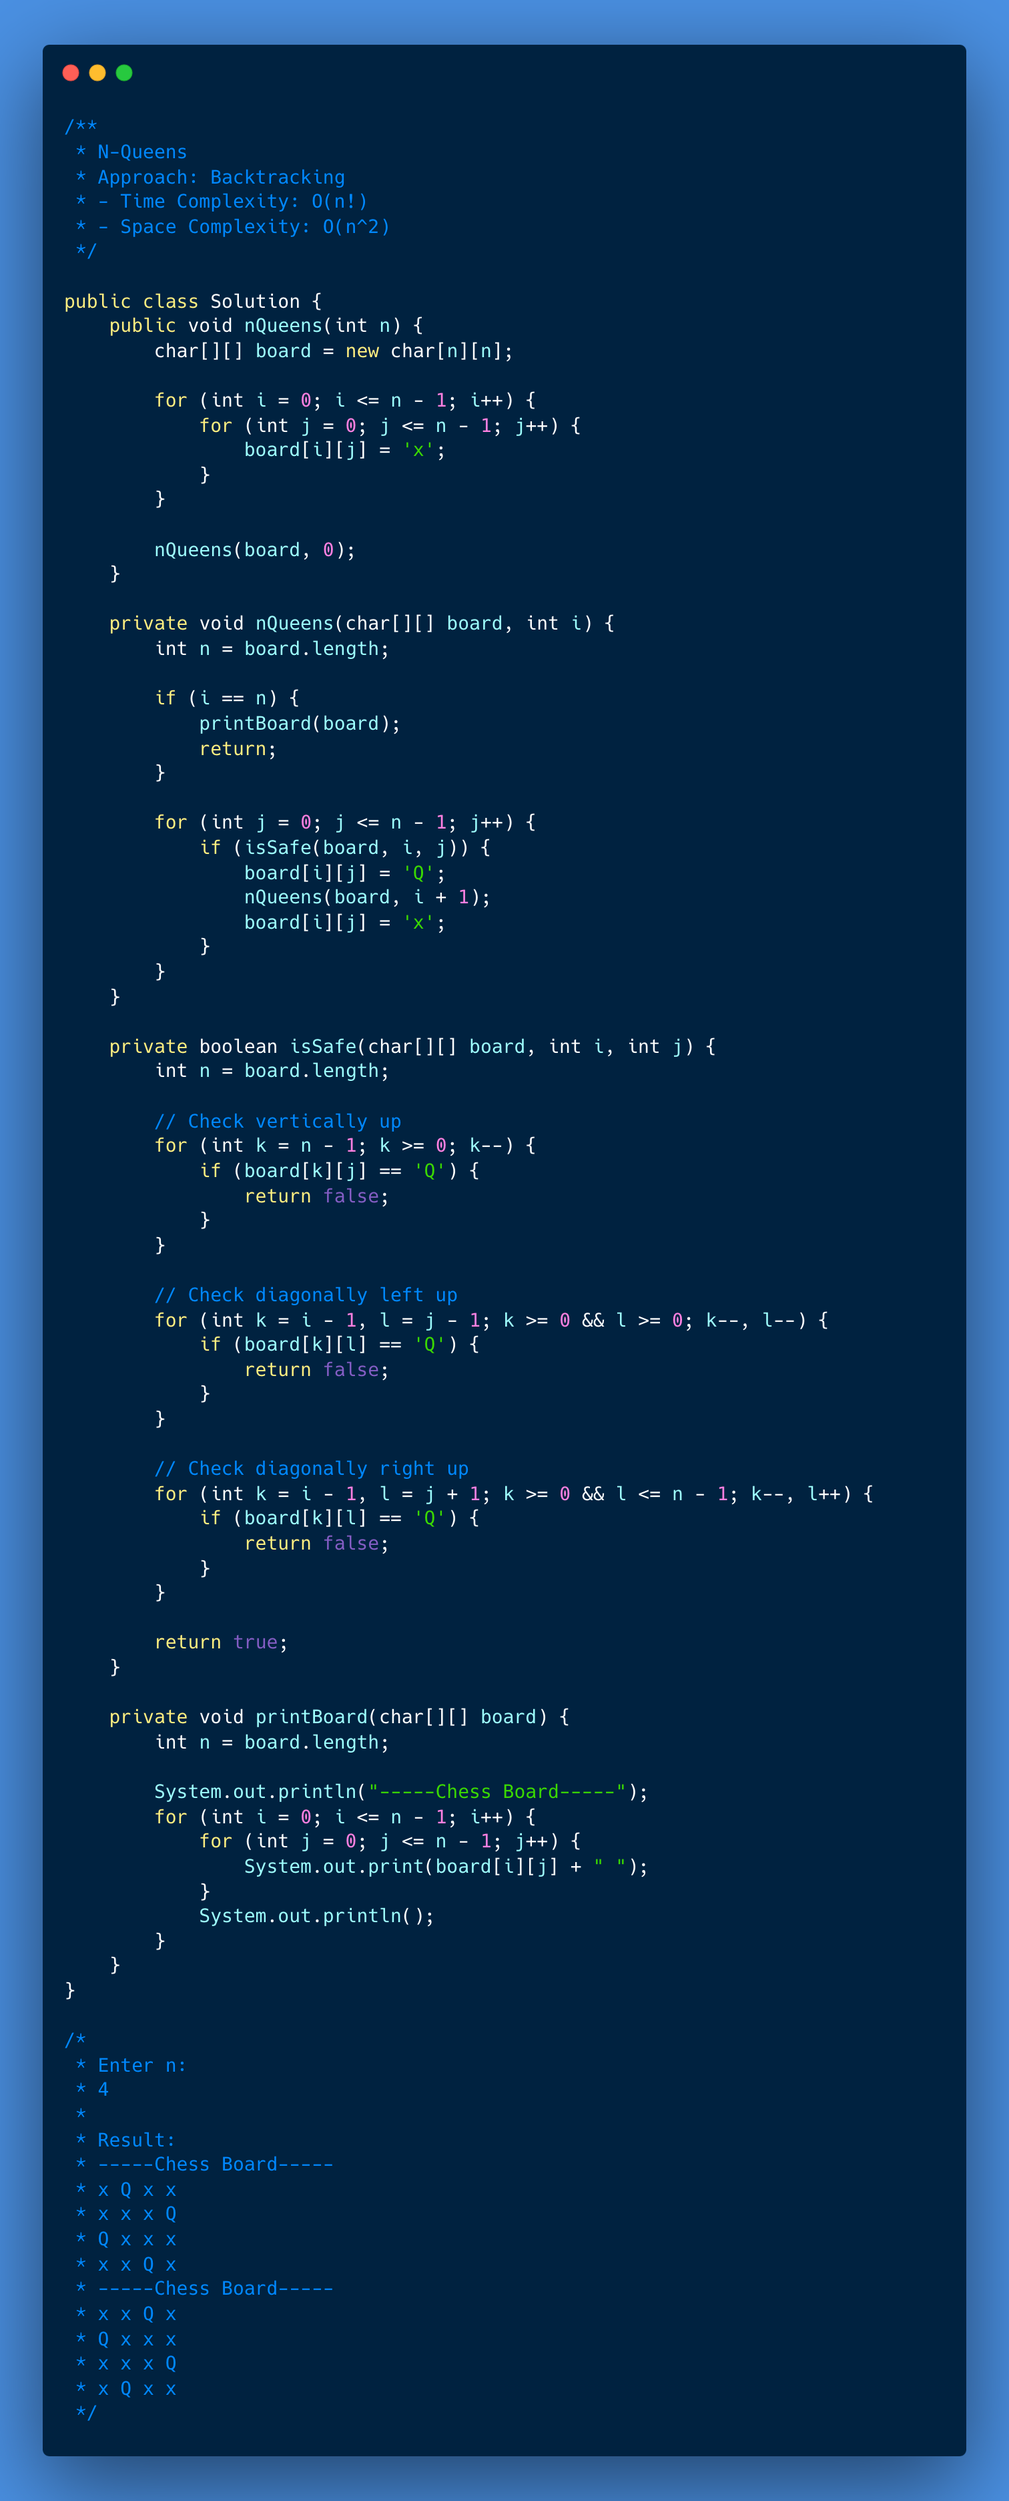
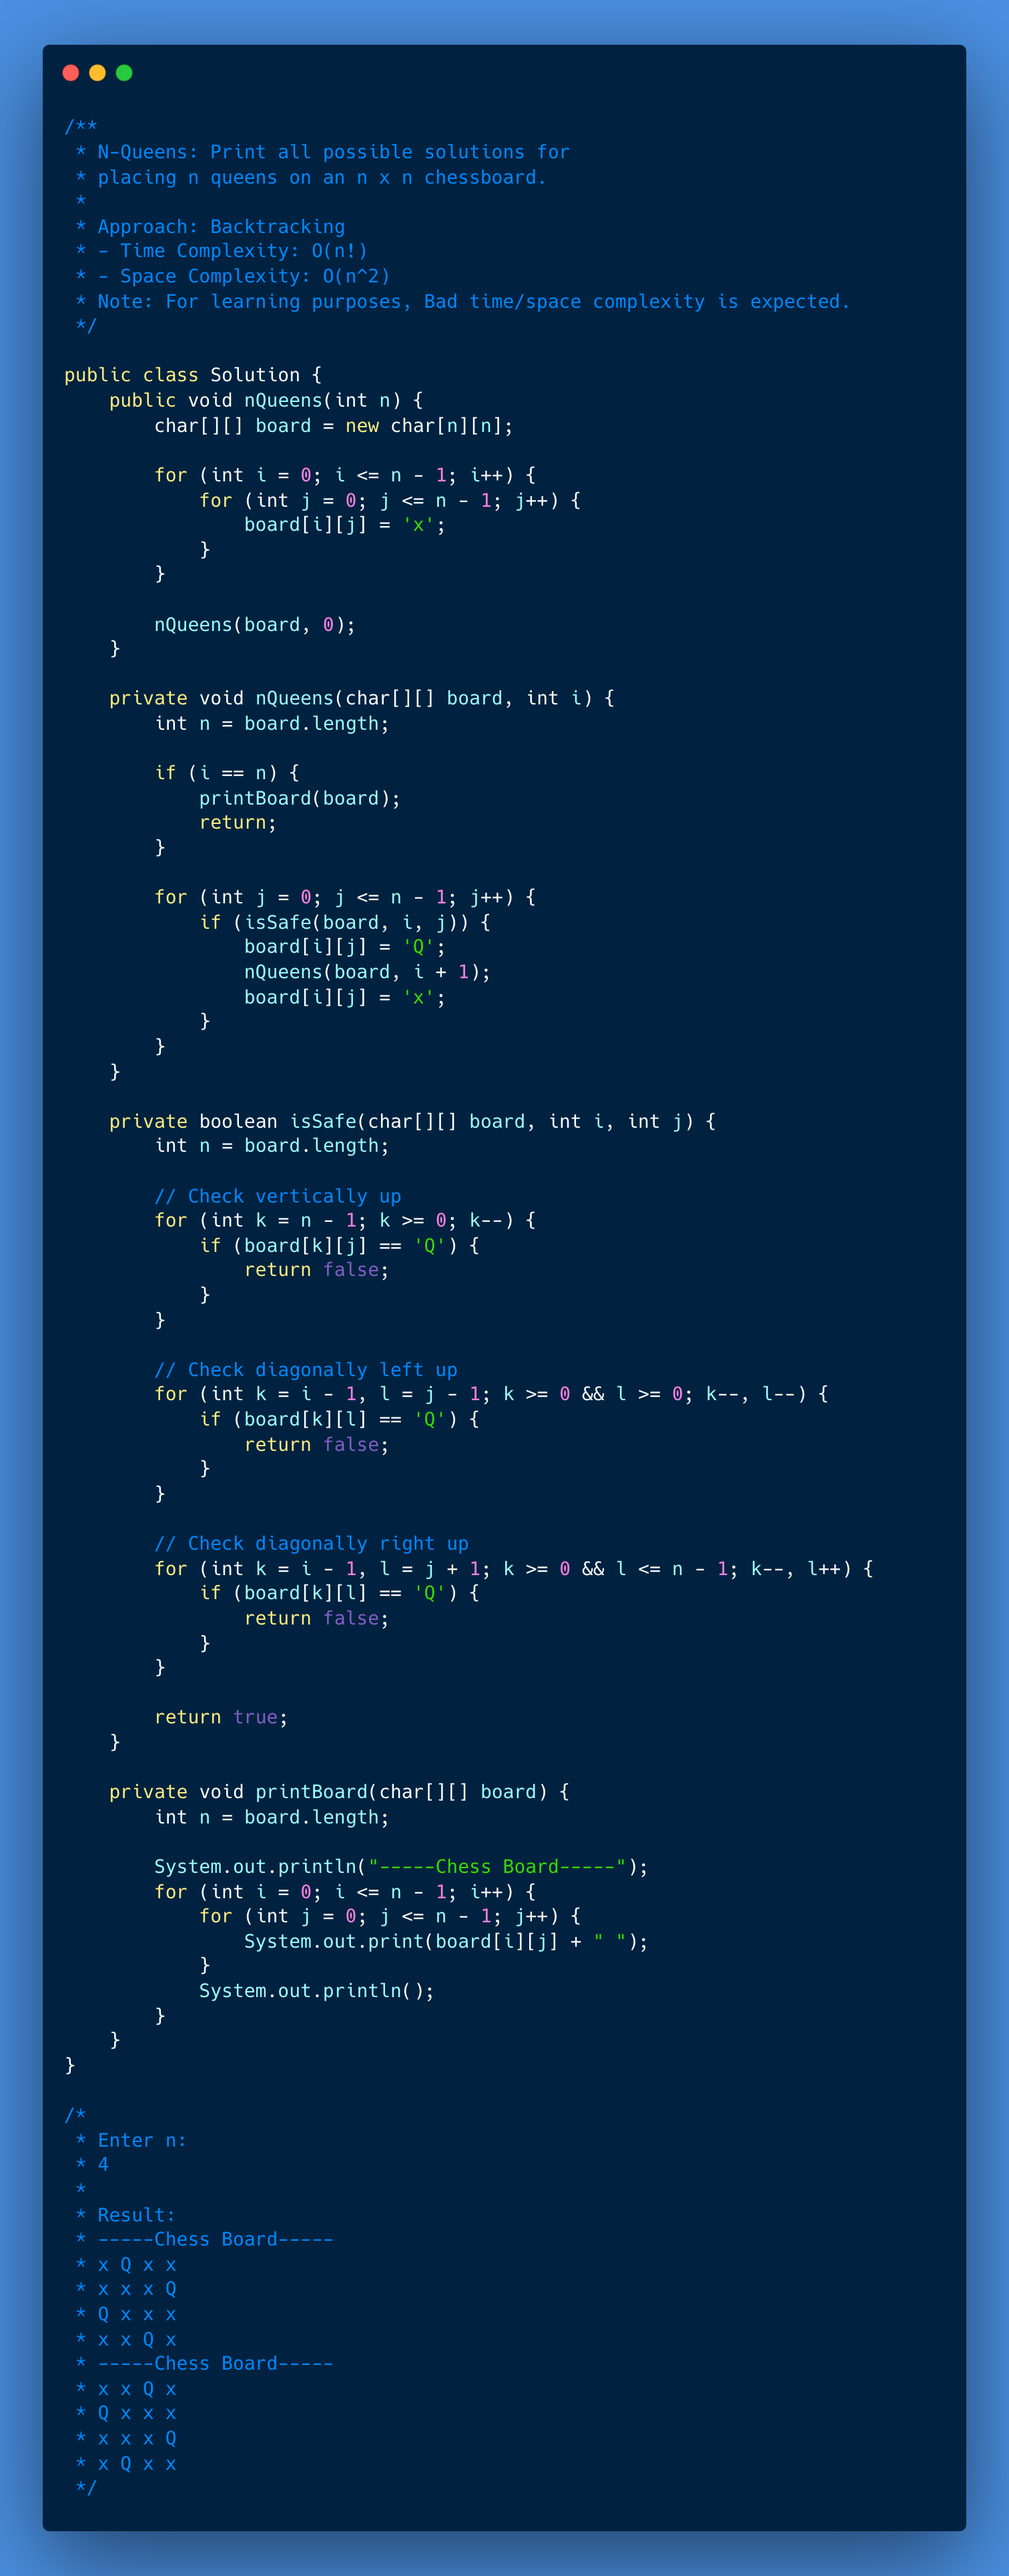
N-Queens

diff --git a/121-n-queens/001-solution/Solution.java b/121-n-queens/001-solution/Solution.java
@@ -1,8 +1,11 @@
 /**
- * N-Queens
+ * N-Queens: Print all possible solutions for
+ * placing n queens on an n x n chessboard.
+ * 
  * Approach: Backtracking
  * - Time Complexity: O(n!)
  * - Space Complexity: O(n^2)
+ * Note: For learning purposes, Bad time/space complexity is expected.
  */
 
 public class Solution {
